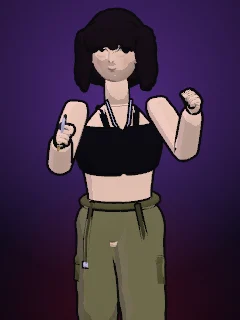
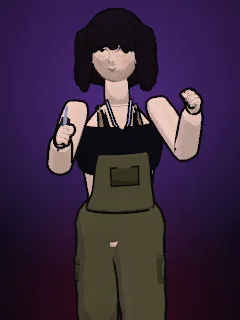
Release v4.38.0: Aghata's shop and the new Outro Lado
- Changelog for v4.38.0 in the in-game news, CHANGELOG.md, CHANGELOG-CLIENTE.md
  and CHANGELOG-ADMIN.md, with the version bumped in package.json and package-lock.json.
- Sobre page: the Outro Lado card describes Aghata's shop, the global upgrades,
  Ressurreição, the gacha and the bosses that punish button-mashing.
- Cast portraits of Damir, Boris and Artemis re-rendered from the polished models.

diff --git a/sobre.html b/sobre.html
@@ -369,7 +369,7 @@
         <li><b>Tutorial e Treino</b><span>Aprenda os golpes passo a passo e pratique combos num alvo parado.</span></li>
       </ol>
       <article class="soon" aria-labelledby="t-outro-lado">
-        <p class="card-k">Já jogável · em evolução (v4.35.1)</p>
+        <p class="card-k">Já jogável · em evolução (v4.38.0)</p>
         <h3 id="t-outro-lado">Outro Lado</h3>
         <p>O modo contra o Outro Lado em vez de outro lutador. Você escolhe um personagem do elenco e atravessa
           <b>masmorras temáticas</b>, sala por sala, com inimigos menores, portas, chaves, gavetas e baús, até o
@@ -381,7 +381,12 @@
             <b>Degolificada</b>. Ela luta com os cabelos e tem um Escudo de Medo que nenhum golpe quebra: só as provas de
             que quem está no corpo é o Gabriel, escondidas nas caixas que ela arremessa.</li>
           <li>Em cada tentativa você sobe de nível e escolhe melhorias temporárias; os baús sobem de 1 a 3 delas. Ao morrer,
-            perde essas melhorias e guarda o nível e a árvore permanente do personagem, que também se compra com moedas.</li>
+            perde essas melhorias, mas as moedas ficam.</li>
+          <li><b>A loja da Aghata</b>: as moedas compram melhorias permanentes que valem para todos os personagens, no balcão
+            dela, que comenta cada compra. A mais cara é a <b>Ressurreição</b>. Dá para devolver tudo e montar outra estratégia.</li>
+          <li><b>Gacha de personagens</b>: uma vitrine com 6 personagens e a chance de cada um, com uma roleta a cada giro. Também
+            dá para comprar direto.</li>
+          <li>Os chefes punem quem só aperta botão, e cada dificuldade rende mais ou menos moedas.</li>
           <li>Sozinho, em dupla no mesmo aparelho (tela dividida) ou online, com volta à vida paga com moedas.</li>
           <li>Campanha salva, com backup para exportar e importar. Novas masmorras e chefes podem ampliar o modo em futuras atualizações.</li>
         </ul>

diff --git a/src/config/version.js b/src/config/version.js
@@ -1,6 +1,6 @@
 // Versão semântica do jogo e NOVIDADES (changelog).
 // Para uma nova atualização: atualize VERSION e acrescente a entrada no TOPO de CHANGELOG.
-export const VERSION = '4.37.0';
+export const VERSION = '4.38.0';
 export const VERSION_LABEL = `v${VERSION}`;
 
 export function formatVersion(version) {
@@ -11,6 +11,19 @@ export function formatVersion(version) {
 }
 
 export const CHANGELOG = [
+  {
+    v: '4.38.0',
+    date: '2026-11-13',
+    title: 'A loja da Aghata',
+    items: [
+      'OUTRO LADO REFORMULADO: menu novo do modo com as moedas, a tentativa em andamento e um botão para CONTINUAR ou COMEÇAR; as outras telas (local ou online, solo ou multiplayer, sozinho ou em equipe, dificuldade, dados) viraram cartões com explicação de cada opção.',
+      'A LOJA DA AGHATA: as melhorias permanentes agora são compradas no balcão dela, que comenta cada compra. As melhorias valem para TODOS os personagens. Os pontos antigos viraram moedas.',
+      'Três melhorias novas: Precisão (chance de crítico), Baú Farto (baús com mais itens) e RESSURREIÇÃO, a mais cara do jogo: uma vez por tentativa, você volta com metade da vida. E DEVOLVER TUDO: desfaz as compras e devolve cada moeda para montar outra estratégia.',
+      'GACHA de personagens: uma vitrine com 6 personagens e a chance de cada um, giro de ● 150 com uma roleta que passa pelos retratos (às vezes o lendário passa raspando). Ou compre direto.',
+      'Chefes mais espertos: quem só aperta botão é empurrado para longe; a Degolificada se solta dos combos e entra em fúria no fim. Cada dificuldade dá mais ou menos moedas.',
+      'Damir, Boris e Artemis com os modelos polidos (cores e roupas da arte oficial), e as armas refeitas: a gadanha e a Foice Amaldiçoada do Boris, a bengala do Damir, o revólver Apache e um rifle de precisão novo para a Artemis.',
+    ],
+  },
   {
     v: '4.37.0',
     date: '2026-11-12',

diff --git a/CHANGELOG-CLIENTE.md b/CHANGELOG-CLIENTE.md
@@ -2,6 +2,14 @@
 
 Este arquivo reúne as mesmas novidades exibidas no menu do jogo.
 
+## v4.38.0 — A loja da Aghata
+- OUTRO LADO REFORMULADO: menu novo do modo com as moedas, a tentativa em andamento e um botão para CONTINUAR ou COMEÇAR; as outras telas (local ou online, solo ou multiplayer, sozinho ou em equipe, dificuldade, dados) viraram cartões com explicação de cada opção.
+- A LOJA DA AGHATA: as melhorias permanentes agora são compradas no balcão dela, que comenta cada compra. As melhorias valem para TODOS os personagens. Os pontos antigos viraram moedas.
+- Três melhorias novas: Precisão (chance de crítico), Baú Farto (baús com mais itens) e RESSURREIÇÃO, a mais cara do jogo: uma vez por tentativa, você volta com metade da vida. E DEVOLVER TUDO: desfaz as compras e devolve cada moeda para montar outra estratégia.
+- GACHA de personagens: uma vitrine com 6 personagens e a chance de cada um, giro de ● 150 com uma roleta que passa pelos retratos (às vezes o lendário passa raspando). Ou compre direto.
+- Chefes mais espertos: quem só aperta botão é empurrado para longe; a Degolificada se solta dos combos e entra em fúria no fim. Cada dificuldade dá mais ou menos moedas.
+- Damir, Boris e Artemis com os modelos polidos (cores e roupas da arte oficial), e as armas refeitas: a gadanha e a Foice Amaldiçoada do Boris, a bengala do Damir, o revólver Apache e um rifle de precisão novo para a Artemis.
+
 ## v4.37.0 — Os Lukic e a Artemis
 - NOVOS PERSONAGENS dos Escriptas: Damir Lukic (Conhecimento, bengala, Cartas do Destino, "Senta!", Blackout e Embaralhar), Boris Lukic (Morte, a foice dos Lukic, Elmo Sangrento e Escapar da Morte) e Artemis (Sangue, revólver Apache e rifle de precisão).
 - A Artemis luta junto com o GAMBÁ: ele anda no ombro dela ou ao lado, se esconde no bolso quando ela apanha, morde de vez em quando nos golpes dela e ataca quando ela chama "Gambá!".

diff --git a/CHANGELOG.md b/CHANGELOG.md
@@ -1,5 +1,19 @@
 # Changelog
 
+## v4.38.0 — A loja da Aghata
+
+### Adicionado
+- Outro Lado: menu do modo com moedas e tentativa; loja da Aghata para as melhorias permanentes (globais), com falas dela.
+- Melhorias Precisão, Baú Farto e Ressurreição; DEVOLVER TUDO devolve as moedas gastas.
+- Gacha de personagens com vitrine de 6, chances por personagem e roleta animada; compra direta continua.
+- Rifle de precisão próprio da Artemis.
+
+### Alterado
+- Telas do Outro Lado (entrada, jogadores, formato, dificuldade, dados, backup, confirmações, resultado) em cartões.
+- Chefes punem quem só aperta botão; Degolificada se solta de combos e entra em fúria; moedas por dificuldade.
+- Modelos de Damir, Boris e Artemis polidos pela arte oficial; gadanha, Foice Amaldiçoada, bengala e revólver Apache refeitos.
+- Artemis passa a comum e Damir/Boris a raros na loja; pontos antigos de melhoria convertidos em moedas.
+
 ## v4.37.0 — Os Lukic e a Artemis
 
 ### Adicionado

diff --git a/CHANGELOG-ADMIN.md b/CHANGELOG-ADMIN.md
@@ -1,6 +1,6 @@
 # Registro administrativo de alterações
 
-## Não lançado — Outro Lado reformulado
+## v4.38.0 — A loja da Aghata (Outro Lado reformulado)
 
 - **As outras telas do Outro Lado no visual novo** (pedido do dono, 2026-11-13): a entrada (LOCAL/ONLINE), SOLO ou
   MULTIPLAYER, SOZINHO ou EM EQUIPE, DIFICULDADE (caveiras, descrição e o multiplicador de moedas em selo), DADOS, BACKUP,
